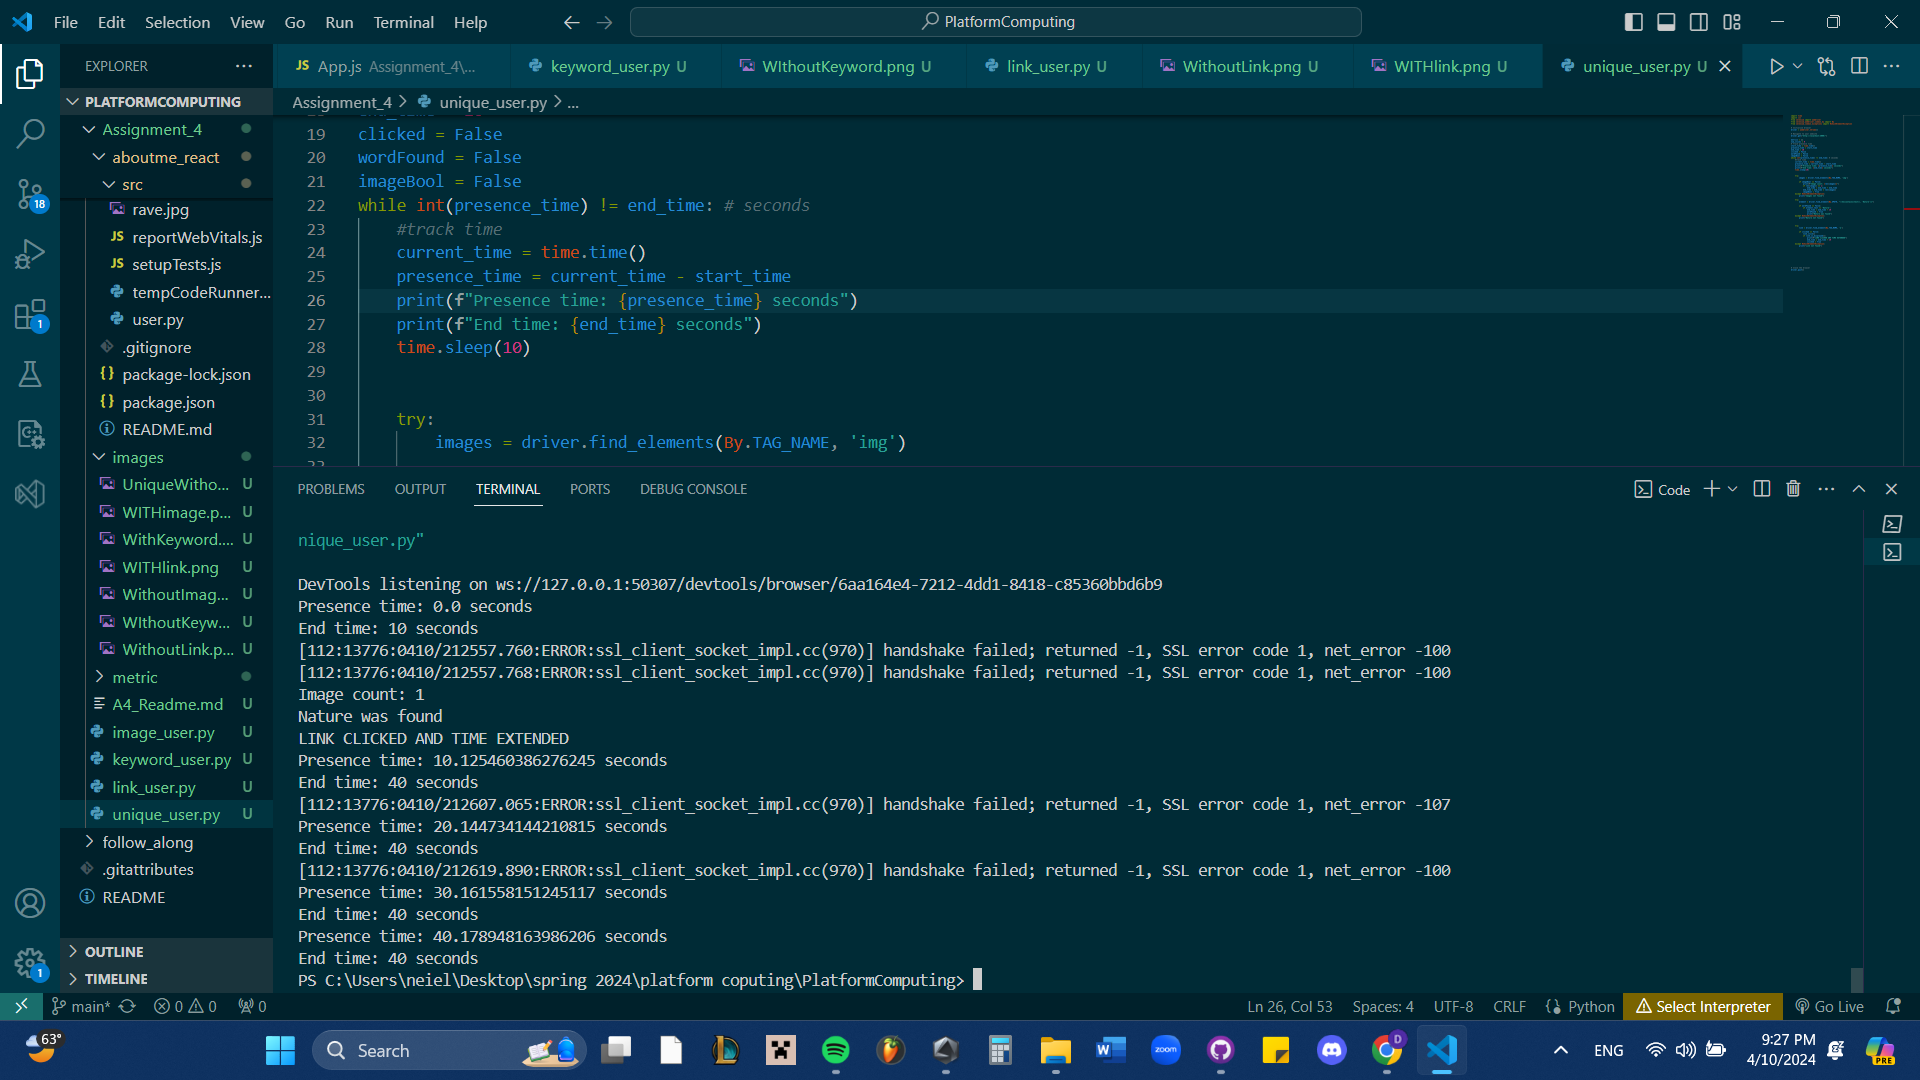
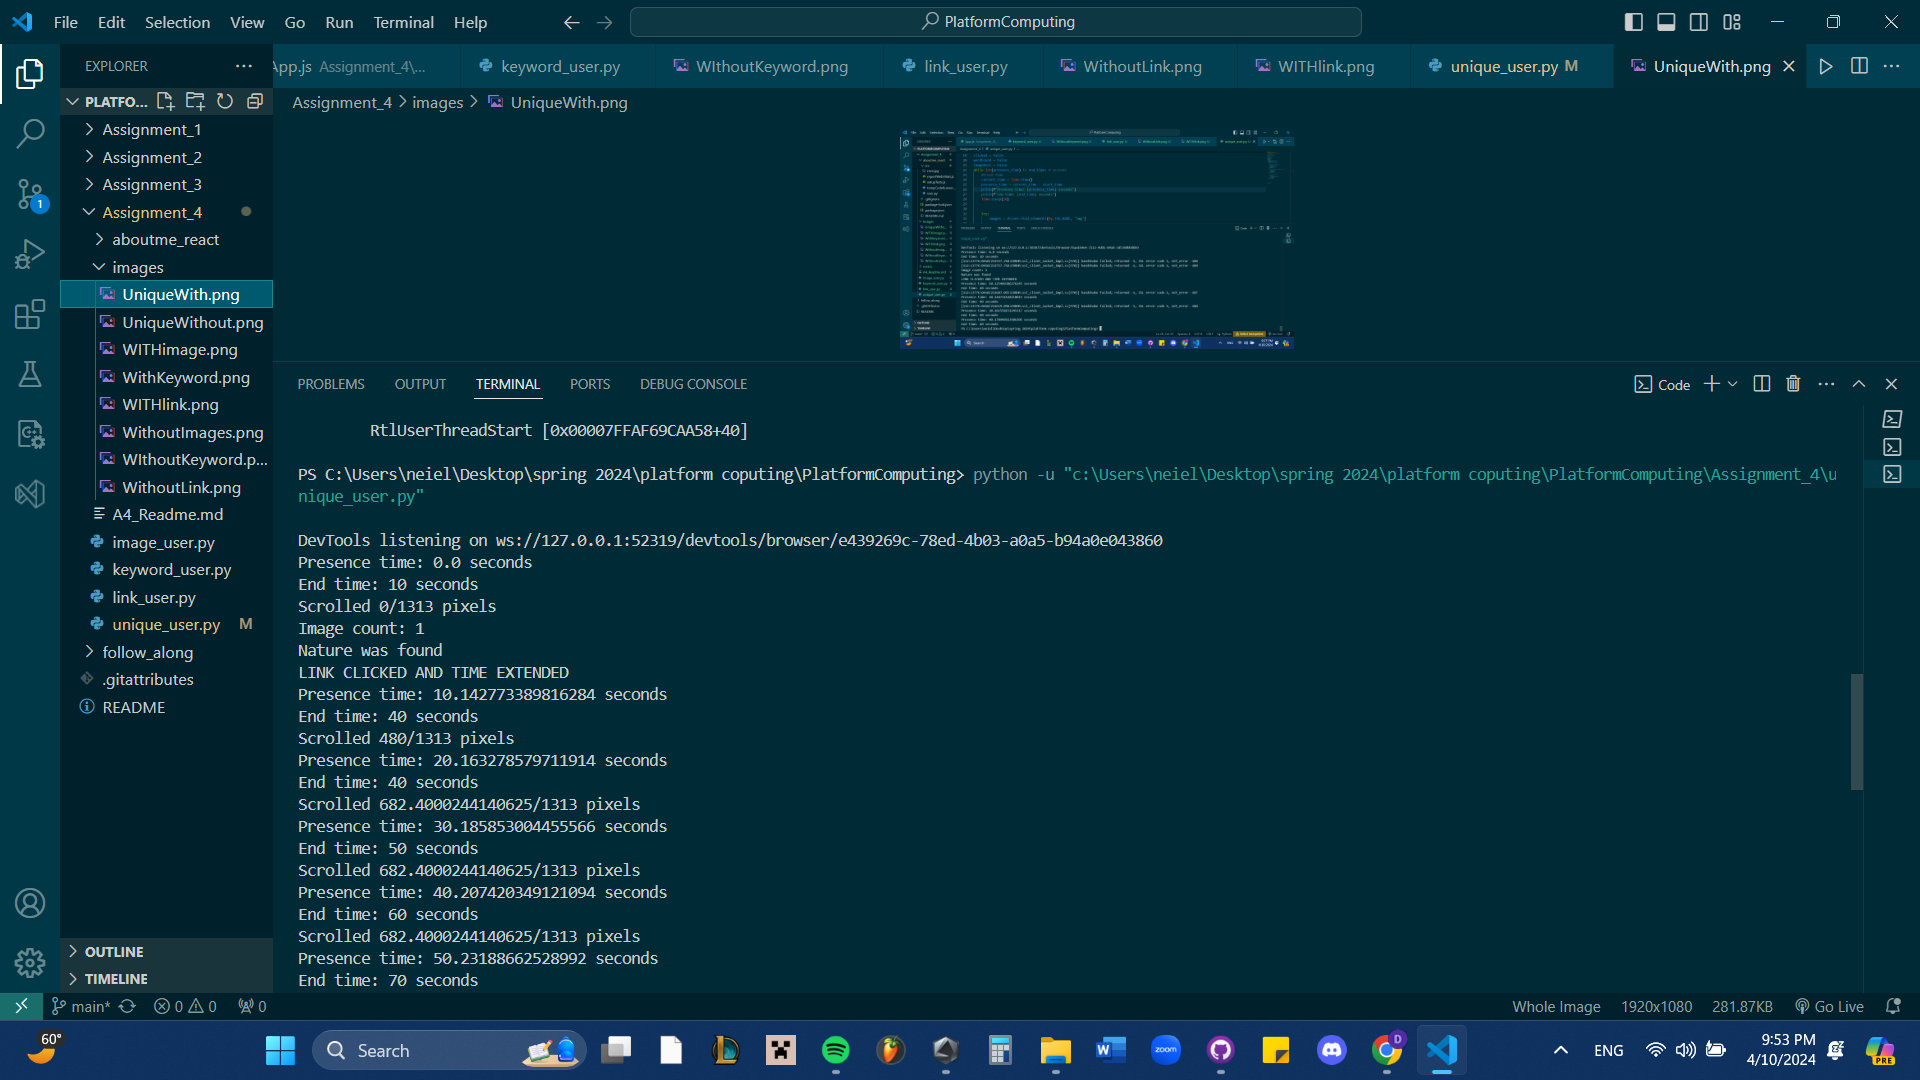
made some final changes

diff --git a/Assignment_4/unique_user.py b/Assignment_4/unique_user.py
@@ -26,7 +26,12 @@ while int(presence_time) != end_time: # seconds
     print(f"Presence time: {presence_time} seconds")
     print(f"End time: {end_time} seconds")
     time.sleep(10) 
+    scroll_height = driver.execute_script("return document.body.scrollHeight")  
+    current_scroll = driver.execute_script("return window.pageYOffset")
+    print(f"Scrolled {current_scroll}/{scroll_height} pixels")
 
+    if current_scroll > 500:
+        end_time = end_time + 10
  
     try:
         images = driver.find_elements(By.TAG_NAME, 'img')

diff --git a/Assignment_4/A4_Readme.md b/Assignment_4/A4_Readme.md
@@ -19,9 +19,10 @@ The following **required** features are completed:
 - [X] Create a user with unique affinities and verify that it works (3 pts)
 The following **bonus** features are implemented:
 
-- [ ] Create a unique user with an affinity OUTSIDE of keywords, images, or links (1.5 pt)
+- [X] Create a unique user with an affinity OUTSIDE of keywords, images, or links (1.5 pt)
 - [ ] Uploaded files for a unique user BOTH in javascript and python (1.5 pt)
-- [ ] DESCRIBE ANY OTHER FEATURES HERE.
+- [X] I added a feautre to check if the user is at the bottom of the screen and if the user is
+    in that general area of the screen it ups the end time by 10 seconds.
 
 ## Screenshot and/or Video Walkthrough
 
